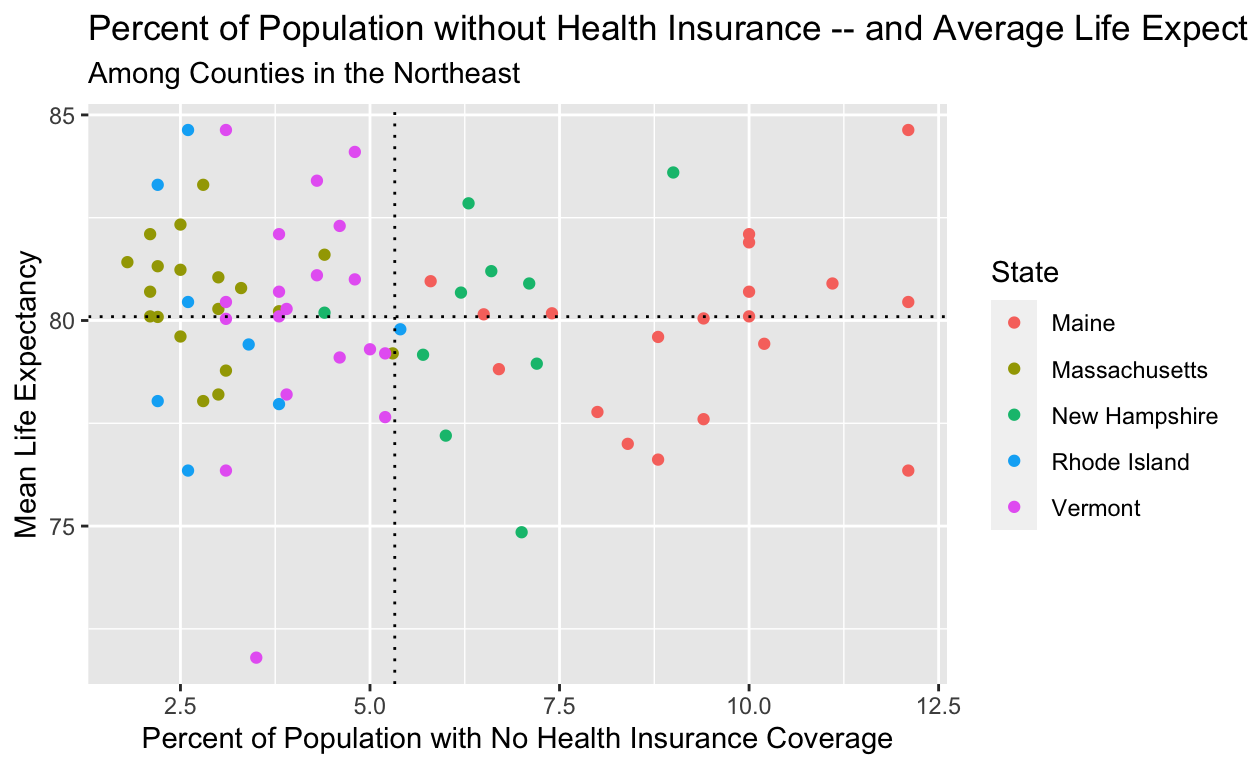
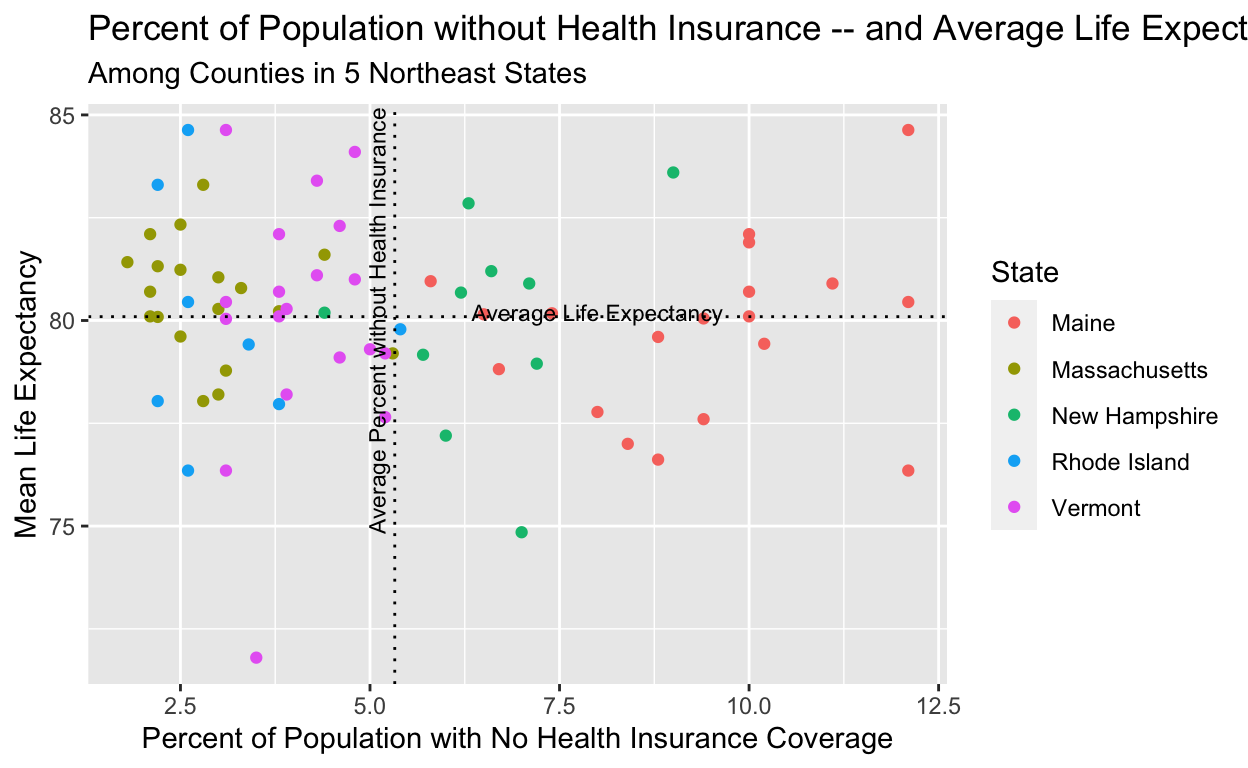
8:26

Changed region(s): [[0.2812, 0.0625, 0.4688, 0.6875], [0.375, 0.375, 0.5938, 0.4375]]

diff --git a/index.html b/index.html
@@ -90,7 +90,7 @@ code span.wa { color: #5e5e5e; font-style: italic; } /* Warning */
   <!--radix_placeholder_meta_tags-->
   <title>Gov 50 Final Project</title>
 
-  <meta property="description" itemprop="description" content="My final project"/>
+  <meta property="description" itemprop="description" content="Health Insurance and Life Expectancy"/>
 
 
   <meta name="article:author" content="Molly Malague"/>
@@ -98,19 +98,19 @@ code span.wa { color: #5e5e5e; font-style: italic; } /* Warning */
   <!--  https://developers.facebook.com/docs/sharing/webmasters#markup -->
   <meta property="og:title" content="Gov 50 Final Project"/>
   <meta property="og:type" content="article"/>
-  <meta property="og:description" content="My final project"/>
+  <meta property="og:description" content="Health Insurance and Life Expectancy"/>
   <meta property="og:locale" content="en_US"/>
 
   <!--  https://dev.twitter.com/cards/types/summary -->
   <meta property="twitter:card" content="summary"/>
   <meta property="twitter:title" content="Gov 50 Final Project"/>
-  <meta property="twitter:description" content="My final project"/>
+  <meta property="twitter:description" content="Health Insurance and Life Expectancy"/>
 
   <!--/radix_placeholder_meta_tags-->
   <!--radix_placeholder_rmarkdown_metadata-->
 
   <script type="text/json" id="radix-rmarkdown-metadata">
-  {"type":"list","attributes":{"names":{"type":"character","attributes":{},"value":["title","author","description","output"]}},"value":[{"type":"character","attributes":{},"value":["Gov 50 Final Project"]},{"type":"list","attributes":{},"value":[{"type":"list","attributes":{"names":{"type":"character","attributes":{},"value":["name"]}},"value":[{"type":"character","attributes":{},"value":["Molly Malague"]}]}]},{"type":"character","attributes":{},"value":["My final project"]},{"type":"list","attributes":{"names":{"type":"character","attributes":{},"value":["distill::distill_article"]}},"value":[{"type":"list","attributes":{"names":{"type":"character","attributes":{},"value":["self_contained"]}},"value":[{"type":"logical","attributes":{},"value":[false]}]}]}]}
+  {"type":"list","attributes":{"names":{"type":"character","attributes":{},"value":["title","author","description","output"]}},"value":[{"type":"character","attributes":{},"value":["Gov 50 Final Project"]},{"type":"list","attributes":{},"value":[{"type":"list","attributes":{"names":{"type":"character","attributes":{},"value":["name"]}},"value":[{"type":"character","attributes":{},"value":["Molly Malague"]}]}]},{"type":"character","attributes":{},"value":["Health Insurance and Life Expectancy"]},{"type":"list","attributes":{"names":{"type":"character","attributes":{},"value":["distill::distill_article"]}},"value":[{"type":"list","attributes":{"names":{"type":"character","attributes":{},"value":["self_contained"]}},"value":[{"type":"logical","attributes":{},"value":[false]}]}]}]}
   </script>
   <!--/radix_placeholder_rmarkdown_metadata-->
   
@@ -1493,7 +1493,7 @@ code span.wa { color: #5e5e5e; font-style: italic; } /* Warning */
 <!--radix_placeholder_front_matter-->
 
 <script id="distill-front-matter" type="text/json">
-{"title":"Gov 50 Final Project","description":"My final project","authors":[{"author":"Molly Malague","authorURL":"#","affiliation":"&nbsp;","affiliationURL":"#","orcidID":""}]}
+{"title":"Gov 50 Final Project","description":"Health Insurance and Life Expectancy","authors":[{"author":"Molly Malague","authorURL":"#","affiliation":"&nbsp;","affiliationURL":"#","orcidID":""}]}
 </script>
 
 <!--/radix_placeholder_front_matter-->
@@ -1506,7 +1506,7 @@ code span.wa { color: #5e5e5e; font-style: italic; } /* Warning */
 <h1>Gov 50 Final Project</h1>
 <!--radix_placeholder_categories-->
 <!--/radix_placeholder_categories-->
-<p>My final project</p>
+<p>Health Insurance and Life Expectancy</p>
 </div>
 
 <div class="d-byline">
@@ -1520,23 +1520,23 @@ code span.wa { color: #5e5e5e; font-style: italic; } /* Warning */
 <div class="layout-chunk" data-layout="l-body">
 
 </div>
-<p>What effect does a lack of health insurance have on a community’s average life expectancy?
-In this study, I examine the correlation between health insurance coverage and life expectancy, across counties in the New England states. I hypothesize that communities with less health insurance coverage will have lower average life expectancies.
+<p>What effect does a lack of health insurance have on a community’s average life expectancy?</p>
+<p>In this study, I examine the correlation between health insurance coverage and life expectancy, across counties in the New England states of Maine, Massachusetts, New Hampshire, Rhode Island, and Vermont. I hypothesize that communities with less health insurance coverage will have lower average life expectancies.
 The issue of healthcare and life expectancy is particularly salient in the wake of COVID; the national crisis laid bare ever-intensifying institutional inequality in healthcare, a phenomenon that has generational implications that often exist along racial and socioeconomic lines.
 If I observe that greater health insurance coverage aligns with longer average life expectancies, this would provide support for my hypothesis. If, conversely, I observe no correlation between health insurance and life expectancy, this would provide evidence against my hypothesis.
-I have elected to study the relationships between these two variables in New England, a region comprising Connecticut, Maine, Massachusetts, New Hampshire, Rhode Island, and Vermont. This region is relatively socioeconomically diverse, though more racially diverse in some portions/states than others</p>
+I have elected to study the relationships between these two variables in five of the New England states, including Maine, Massachusetts, New Hampshire, Rhode Island, and Vermont. This region is considered to be relatively socioeconomically diverse, though more racially diverse in some portions/states than others. There should be a sufficient number of counties to reflect trends across the country.</p>
 <div class="layout-chunk" data-layout="l-body">
 
 </div>
 <div class="layout-chunk" data-layout="l-body">
 
 </div>
-<p>The explanatory variable of interest is statistics on the percentage of a given New England county that does not have health insurance coverage. This explanatory variable is sourced from the American Community Survey, via the Census Bureau. My outcome variable is the life expectancy in the same given county, as measured by the Center for Disease Control and Census data.
+<p>The explanatory variable of interest is statistics on the percentage of a given county population that does not have health insurance coverage. This explanatory variable is sourced from the American Community Survey, via the Census Bureau. My outcome variable is the life expectancy in the same given county, as measured by the Center for Disease Control and Census data.
 A summary of the dependent variable is below:</p>
 <div class="layout-chunk" data-layout="l-body">
 <p><img src="index_files/figure-html5/unnamed-chunk-4-1.png" width="624" /></p>
 </div>
-<p>The following visualization includes a point for each New England county, colored according to its state.</p>
+<p>The following visualization includes a point for each county, colored according to its state.</p>
 <div class="layout-chunk" data-layout="l-body">
 <p><img src="index_files/figure-html5/unnamed-chunk-5-1.png" width="624" /></p>
 </div>
@@ -1563,7 +1563,10 @@ Note: <em>p&lt;0.1; <strong>p&lt;0.05; </strong></em>p&lt;0.01</p>
 <p><img src="index_files/figure-html5/unnamed-chunk-7-1.png" width="624" /></p>
 </div>
 <div class="layout-chunk" data-layout="l-body">
-<p><img src="index_files/figure-html5/unnamed-chunk-8-1.png" width="624" /></p>
+
+</div>
+<div class="layout-chunk" data-layout="l-body">
+<p><img src="index_files/figure-html5/unnamed-chunk-9-1.png" width="624" /></p>
 </div>
 <p>discussion :
 I cannot accept my hypothesis, as the difference in life expectancy for those with and without health insurance was not statistically significant. Although the coefficient can be interpreted to demonstrate a <code>-0.05</code> year decrease in life expectancy with every one percent increase in population without health insurance coverage, a true association cannot be made because the results do not lie within a 95% confidence interval.
